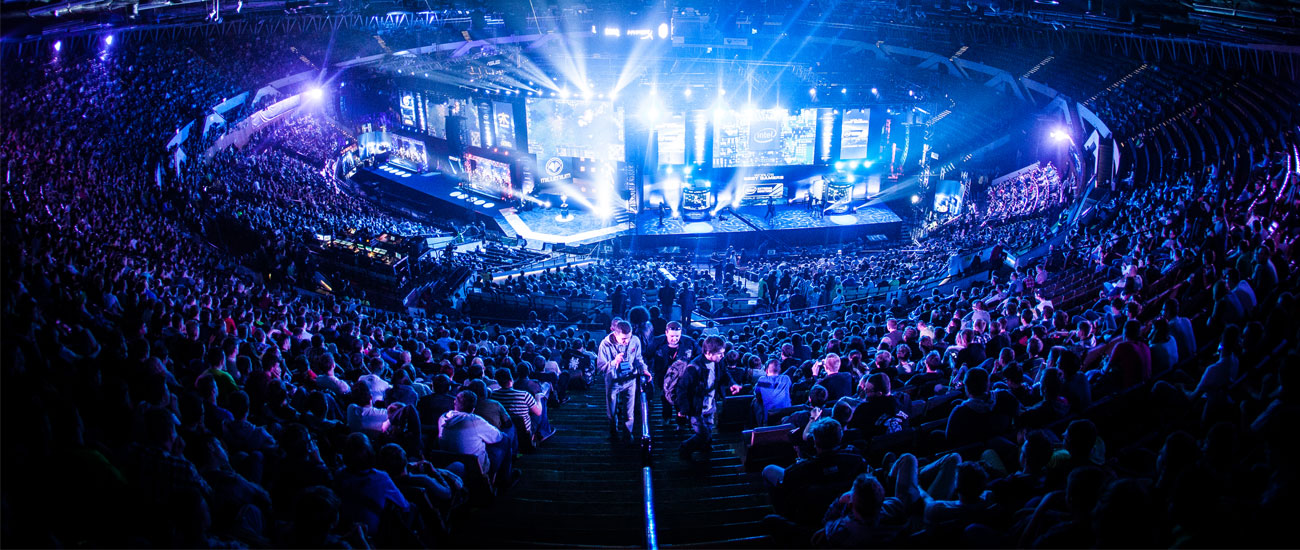
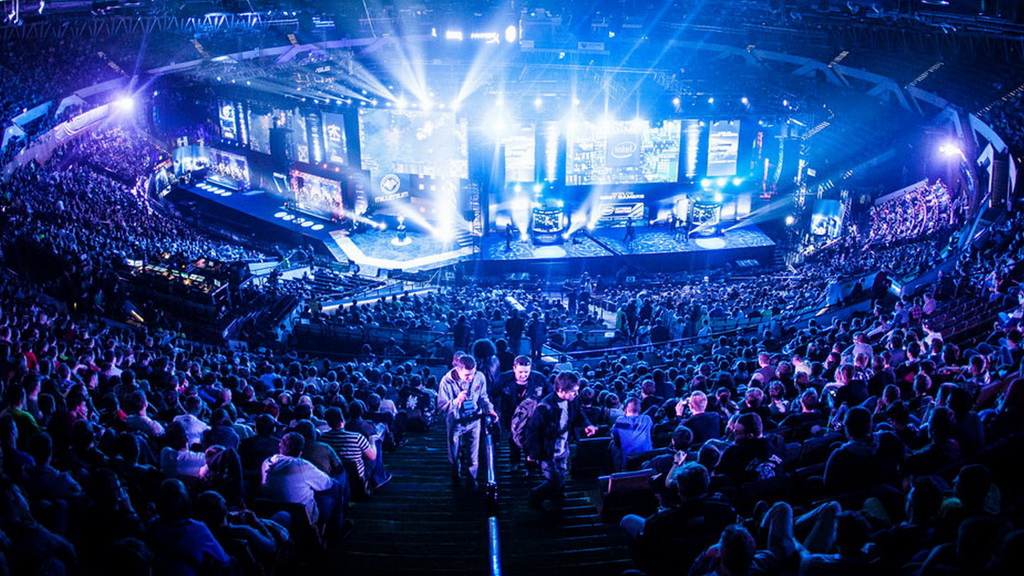
[Edit]fix bg

diff --git a/resources/views/home.blade.php b/resources/views/home.blade.php
@@ -2,10 +2,12 @@
 @section('home')
 
 <div style="width:768px; margin:0 auto;" class="col-sm-12 blog-main" >
-    <div class="w3-container row" style="bottom: 0;">
+    <div class="w3-container row" style="bottom:0; ">
         <picture>
-            <source media="(min-width: 1441px)" srcset="{{asset('images/bg.jpg')}}">
-            <source media="(max-width: 400px)" srcset="{{asset('images/bg-mobile2.jpg')}}">
+            <source media="(min-width: 1441px)" srcset="{{asset('images/bg-xl.jpg')}}">
+            <source media="(min-width: 1024px)" srcset="{{asset('images/bg-l.jpg')}}">
+            <source media="(min-width: 560px)" srcset="{{asset('images/bg.jpg')}}">
+            <source media="(max-width: 400px)" srcset="{{asset('images/bg-mobile.jpg')}}">
             <img src="{{asset('images/bg.jpg')}}" alt="background" style="width:100%; height:100%;">
         </picture>
         <div class="text-block">
